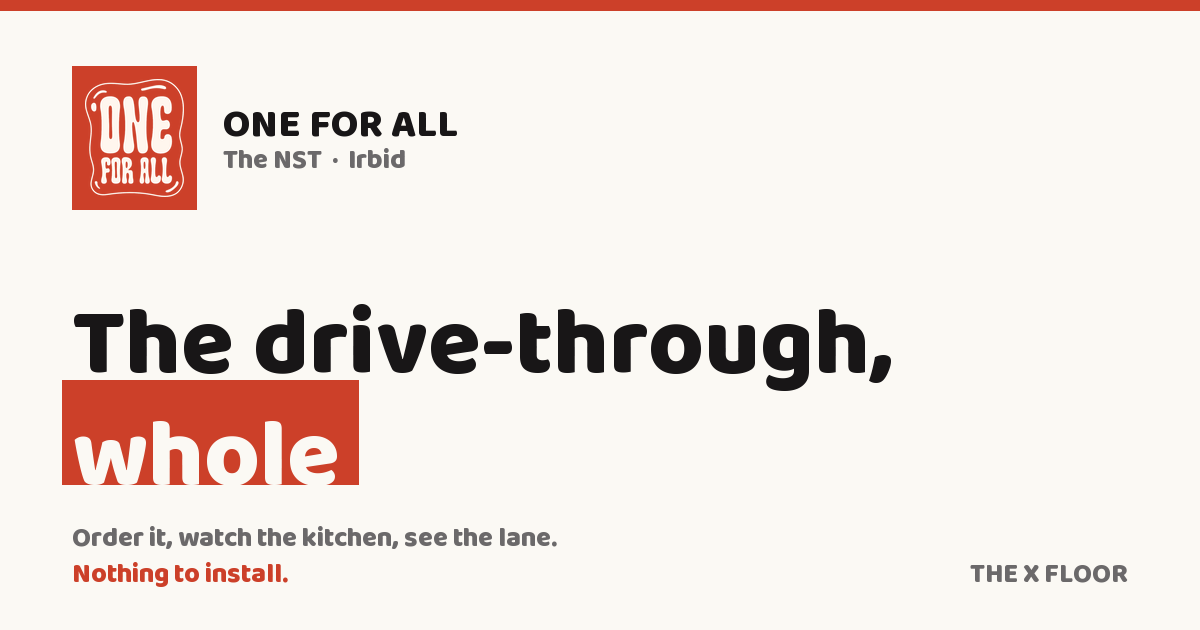
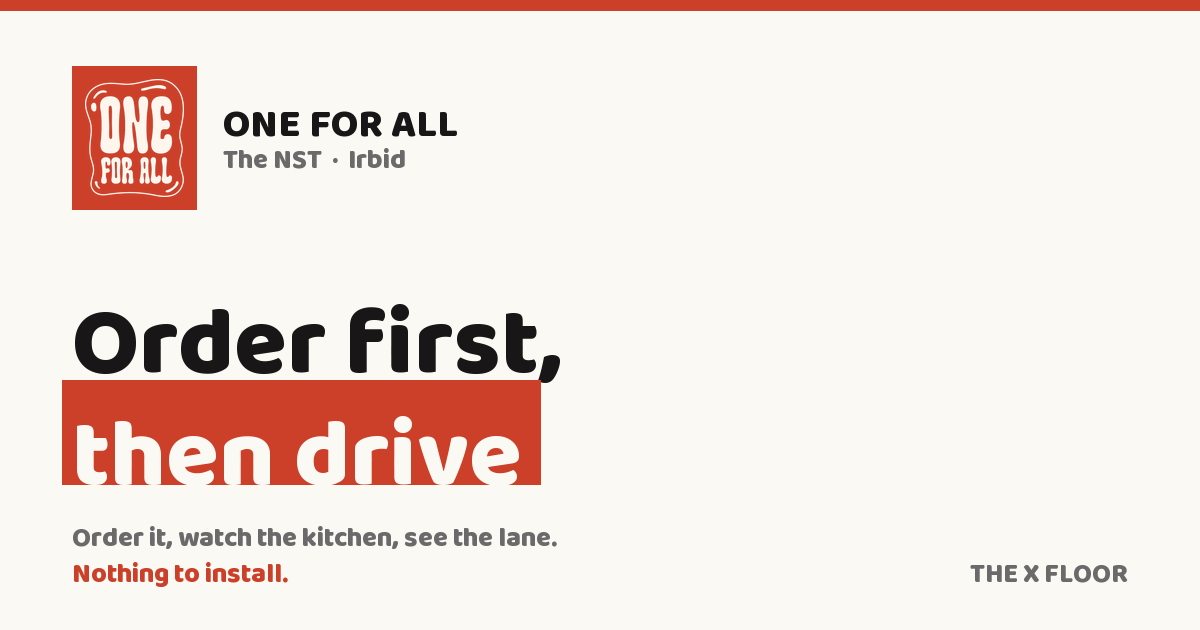
name the page for the decision it carries, not for being complete
"Whole" said the document was finished. "Order first, then drive" says
what the design actually is, in three words, before the owner scrolls.
Renamed in the source deliverable and in the generator, so the next
build keeps it: title, og:title, h1 and the preview card headline.

Changed region(s): [[0.0617, 0.4825, 0.74, 0.7841]]

diff --git a/plan/index.html b/plan/index.html
@@ -2,11 +2,11 @@
 <meta name="viewport" content="width=device-width, initial-scale=1, viewport-fit=cover">
 <!-- unlisted: reachable by link, never by search -->
 <meta name="robots" content="noindex, nofollow, noarchive">
-<title>The Drive-Through, Whole · One For All</title>
-<meta name="description" content="Order it, watch the kitchen, see the lane. The whole plan for One For All's drive-through at The NST, Irbid.">
+<title>Order First, Then Drive · One For All</title>
+<meta name="description" content="Order it, watch the kitchen, see the lane. The full plan for One For All's drive-through at The NST, Irbid.">
 <meta property="og:type" content="website">
 <meta property="og:url" content="https://the-10th-floor.github.io/oneforall-menu/plan/">
-<meta property="og:title" content="One For All · the drive-through, whole">
+<meta property="og:title" content="One For All · order first, then drive">
 <meta property="og:description" content="Order it, watch the kitchen, see the lane. Nothing to install.">
 <meta property="og:image" content="https://the-10th-floor.github.io/oneforall-menu/plan/card.png">
 <meta property="og:image:width" content="1200">
@@ -228,7 +228,7 @@
 
 <header><div class="wrap">
   <p class="eyebrow">One For All &middot; The NST, Al-Hosn Road, Irbid</p>
-  <h1>The drive-through, <em>whole</em>.</h1>
+  <h1>Order first, <em>then drive</em>.</h1>
   <p>The decision, the three working parts running, the build, what it costs, what it was checked against, and what nobody has measured yet. One page, start to finish.</p>
 </div></header>
 
